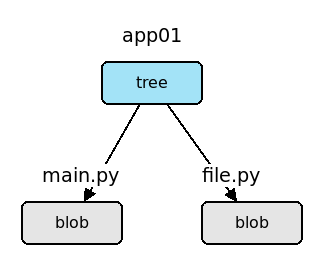
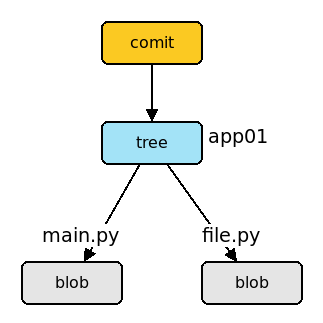
prog_alapok: 03 webhibák kiegészítve

Changed region(s): [[0.0619, 0.0608, 0.8359, 0.9734], [0.5882, 0.5779, 0.9598, 0.9734]]

diff --git a/prog_alapok/03_Webhibak.md b/prog_alapok/03_Webhibak.md
@@ -205,6 +205,33 @@ A következő képen a három commit utáni állapotot látjuk.
 
 Egy commit egy pillanatkép a projektről. A HEAD mutatja éppen hol dolgozunk. A képen láthatjuk, hogy a master ágon dolgozunk és a harmadik pillanatképen.
 
+### Az add művelet
+
+A stage állapotba az add paranccsal tesszük a fájlokat. Ezzel követett állapotba kerülnek.
+
+```cmd
+git add .gitignore
+git add adat.txt
+```
+
+A fájlok hozzáadása a --all kapcsolóval egyetlen paranccsal is megoldhatók:
+
+```cmd
+git add --all
+```
+
+Ezzel a paranccsal vigyáznunk kell, mert olyan fájlok és könyvtárak is hozzáadhatunk amiket nem szeretnénk. A következő forma még egyszerűbb:
+
+```cmd
+git add .
+```
+
+Ügyeljünk a használatuk során. A pont és a --all használata esetén ajánlot mindig futtatni a status lekérdezését:
+
+```cmd
+git status -u
+```
+
 ### Git objektumok
 
 A Git használata során a háttérben különféle objektumok jönnek létre.
@@ -233,15 +260,24 @@ git add file.py
 
 A művelet után mindkét fájlhoz létrejön egy **blob** nevű objektum.
 
+* blob
+
 ![Blob létrejötte](images/git/git_add_blob.png)
 
-Ezt követőően tároljuk el a **git commit** paranccsal:
+Ezt követően tároljuk el a **git commit** paranccsal:
 
 ![tree létrehozása](images/git/git_commit_tree.png)
 
-A művelet után a következő objektumszerkezet létezik:
+A művelet után létrejön két objektum:
+
+* tree
+* commit
+
+A következő objektumszerkezet létezik:
 
 ![Git objektumok](images/git/git_objektumok_1.png)
+
+Az add műveletnél létrejön a blob objektum, a commit műveletnél létrejön a tree és commit objektum.
 
 Lássunk egy példát egy másik Git objektumszerkezetre. A könyvtárszerkezet:
 
@@ -374,6 +410,12 @@ A távoli elérés törlése:
 
 ```cmd
 git remote remove origin
+```
+
+A helyi tároló feltöltése távoli szerverre:
+
+```cmd
+git push origin master
 ```
 
 ### További lehetőségek
